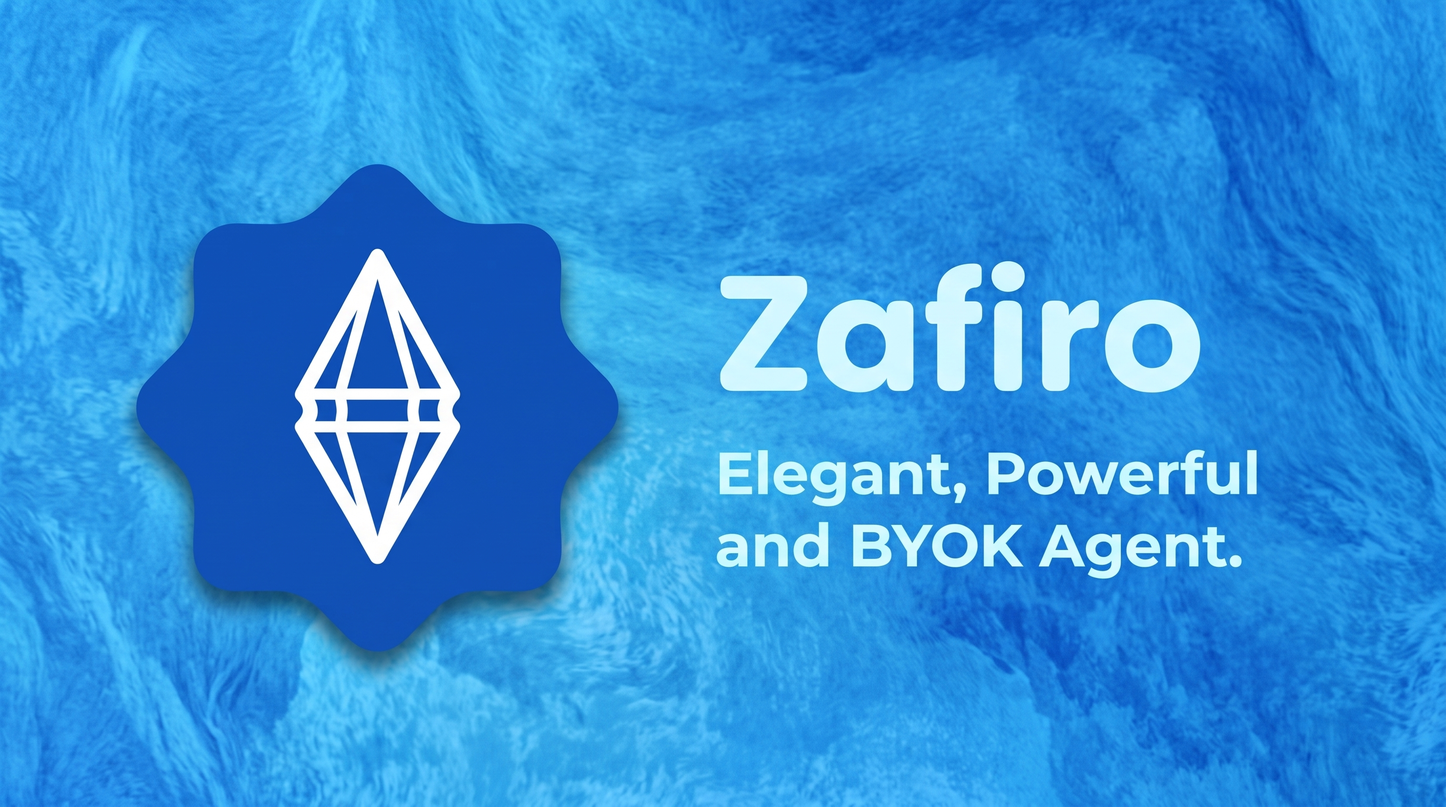
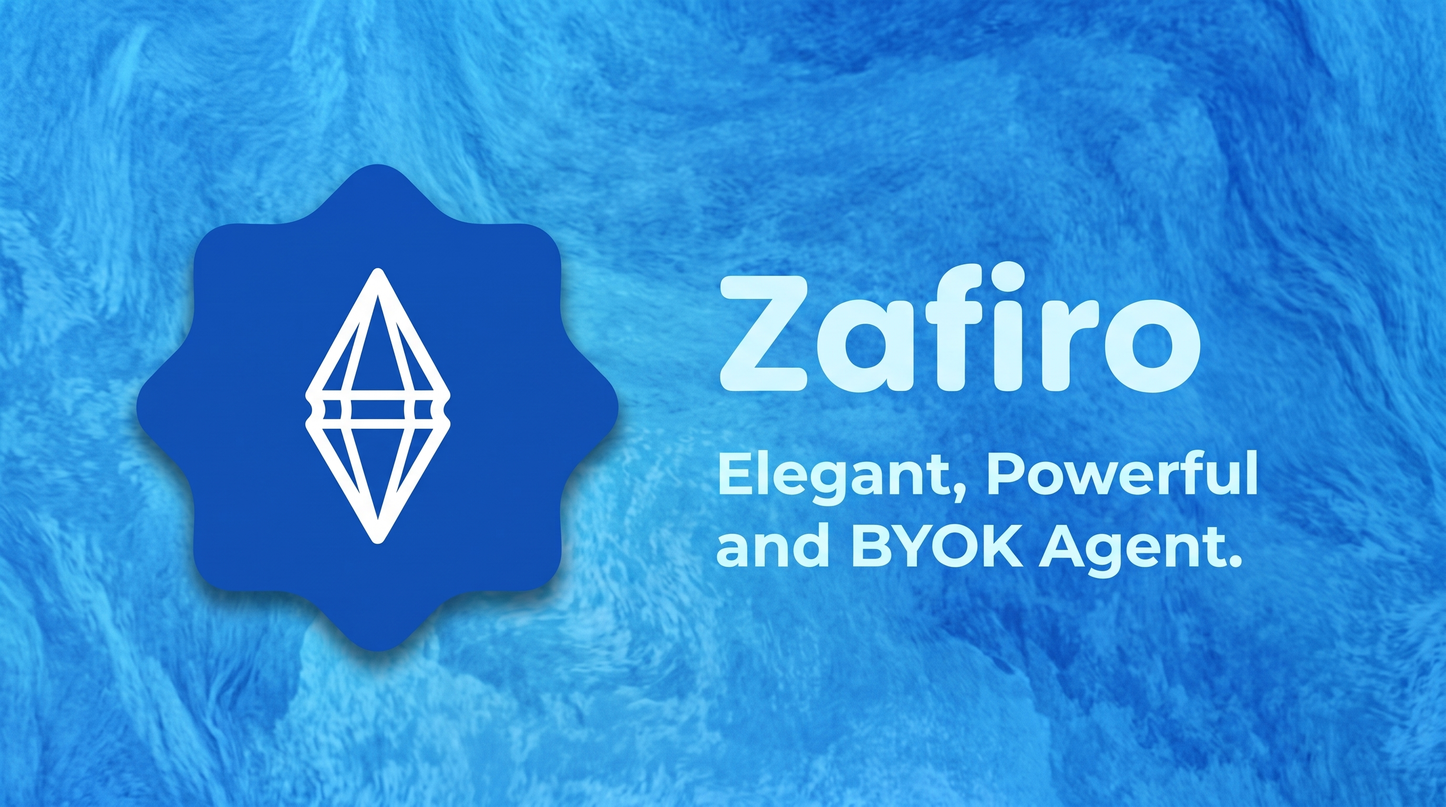
feat: add social preview crop script and update social previews

Changed region(s): [[0.1875, 0.3125, 0.3438, 0.7188]]

diff --git a/res/crop_social_preview.py b/res/crop_social_preview.py
@@ -1,0 +1,179 @@
+#!/usr/bin/env python3
+"""
+Crop and resize horizontal images to 2:1 aspect ratio (recommended 1280x640 for GitHub social preview).
+
+Logic:
+1. Confirmed horizontal image (w >= h).
+2. Uses the shorter side (height h) to deduce target width (target_w = 2 * h):
+   - If w > 2 * h: image is wider than 2:1 -> crop excess width (left/right symmetrically).
+   - If w < 2 * h: image is taller than 2:1 -> crop excess height (top/bottom symmetrically).
+   - If w == 2 * h: already 2:1 -> no cropping needed.
+3. If target size exceeds 1280x640 (or if --downscale is requested), downscales
+   to 1280x640 (or custom target) to save bandwidth and meet GitHub's recommended display spec.
+"""
+
+import argparse
+import sys
+from pathlib import Path
+from PIL import Image
+
+
+def process_image(
+    input_path: Path,
+    output_path: Path = None,
+    max_w: int = 1280,
+    max_h: int = 640,
+    downscale_first: bool = True,
+    quality: int = 90,
+) -> Path:
+    if not input_path.exists():
+        raise FileNotFoundError(f"Input file not found: {input_path}")
+
+    if output_path is None:
+        output_path = input_path.with_name(f"{input_path.stem}_github.jpeg")
+
+    with Image.open(input_path) as im:
+        # Convert RGBA / P to RGB if saving as JPEG
+        if im.mode in ("RGBA", "LA", "P"):
+            rgb_im = Image.new("RGB", im.size, (255, 255, 255))
+            if im.mode == "P":
+                im = im.convert("RGBA")
+            rgb_im.paste(im, mask=im.split()[-1] if "A" in im.mode else None)
+            im = rgb_im
+        elif im.mode != "RGB":
+            im = im.convert("RGB")
+
+        w, h = im.size
+        if w < h:
+            print(f"Warning: Image is vertical ({w}x{h}), treating width as the short side.")
+
+        print(f"Original size: {w}x{h}")
+
+        # If user recommends downscaling before cropping:
+        # We can scale down proportionally first so that after 2:1 crop it matches exactly max_w x max_h.
+        if downscale_first and max_w and max_h:
+            # We want the cropped result to be max_w x max_h (aspect ratio 2:1).
+            # Determine whether width or height should be matched to cover (max_w, max_h)
+            # scale = max(max_w / w, max_h / h)
+            # If scaling up, we only do it if the image is smaller than target
+            scale = min(max_w / min(w, 2 * h), max_h / h)
+            if scale < 1.0:
+                # Downscale first while maintaining aspect ratio
+                new_w = int(round(w * scale))
+                new_h = int(round(h * scale))
+                # Ensure it at least covers max_w x max_h
+                if new_w < max_w:
+                    new_w = max_w
+                    new_h = int(round(h * (max_w / w)))
+                if new_h < max_h:
+                    new_h = max_h
+                    new_w = int(round(w * (max_h / h)))
+
+                print(f"Downscaled first to: {new_w}x{new_h}")
+                im = im.resize((new_w, new_h), Image.Resampling.LANCZOS)
+                w, h = im.size
+
+        # Deduce target width based on short side (height h)
+        ideal_w = 2 * h
+
+        if w > ideal_w:
+            # Too wide: crop horizontal sides symmetrically
+            crop_w = ideal_w
+            crop_h = h
+            left = (w - crop_w) // 2
+            top = 0
+            right = left + crop_w
+            bottom = h
+            print(f"Image is wider than 2:1 ({w} > {ideal_w}). Cropping width: [{left}, {top}, {right}, {bottom}]")
+            im = im.crop((left, top, right, bottom))
+        elif w < ideal_w:
+            # Too tall: crop vertical sides symmetrically (target height = w // 2)
+            crop_w = w
+            crop_h = w // 2
+            left = 0
+            top = (h - crop_h) // 2
+            right = w
+            bottom = top + crop_h
+            print(f"Image is taller than 2:1 ({w} < {ideal_w}). Cropping height: [{left}, {top}, {right}, {bottom}]")
+            im = im.crop((left, top, right, bottom))
+        else:
+            print("Image is already 2:1 aspect ratio. No crop needed.")
+
+        # If not downscaled first or if cropped size is larger than max_w x max_h, scale to max_w x max_h
+        if max_w and max_h and (im.width > max_w or im.height > max_h):
+            print(f"Scaling final output to {max_w}x{max_h}")
+            im = im.resize((max_w, max_h), Image.Resampling.LANCZOS)
+
+        output_path.parent.mkdir(parents=True, exist_ok=True)
+        im.save(output_path, format="JPEG", quality=quality, optimize=True)
+        print(f"Processed successfully! Saved to: {output_path} ({im.size[0]}x{im.size[1]})")
+
+    return output_path
+
+
+def main():
+    parser = argparse.ArgumentParser(
+        description="Crop/resize horizontal image to 2:1 for GitHub social preview."
+    )
+    parser.add_argument(
+        "input",
+        nargs="?",
+        default="./brand/zafiro_social_preview.jpeg",
+        help="Path to the input image (default: ./brand/zafiro_social_preview.jpeg)",
+    )
+    parser.add_argument(
+        "-o",
+        "--output",
+        help="Path to output file (default: <input_stem>_github.jpeg in same directory)",
+    )
+    parser.add_argument(
+        "--width",
+        type=int,
+        default=1280,
+        help="Target width (default: 1280)",
+    )
+    parser.add_argument(
+        "--height",
+        type=int,
+        default=640,
+        help="Target height (default: 640)",
+    )
+    parser.add_argument(
+        "--quality",
+        type=int,
+        default=90,
+        help="JPEG quality (default: 90)",
+    )
+    parser.add_argument(
+        "--no-downscale-first",
+        action="store_true",
+        help="Crop first at full resolution, then downscale",
+    )
+
+    args = parser.parse_args()
+
+    input_path = Path(args.input)
+    if not input_path.is_absolute():
+        # resolve relative to current working dir
+        input_path = Path.cwd() / input_path
+
+    out_path = Path(args.output) if args.output else None
+    if out_path and not out_path.is_absolute():
+        out_path = Path.cwd() / out_path
+
+    try:
+        process_image(
+            input_path=input_path,
+            output_path=out_path,
+            max_w=args.width,
+            max_h=args.height,
+            downscale_first=not args.no_downscale_first,
+            quality=args.quality,
+        )
+    except Exception as e:
+        print(f"Error: {e}", file=sys.stderr)
+        sys.exit(1)
+
+
+if __name__ == "__main__":
+    main()

diff --git a/swap_images.py b/swap_images.py
@@ -1,0 +1,114 @@
+#!/usr/bin/env python3
+"""
+swap_images.py
+
+切换 Markdown 文件中指向本仓库的图片链接：
+- --local: 将远程 GitHub 图片 URL 切换为本地相对路径 (例如 ./res/...)
+- --remote: 将本地图片路径切换为远程 GitHub raw/blob URL (例如 https://github.com/niki914/zafiro/blob/main/res/...)
+"""
+
+import argparse
+import re
+import sys
+from pathlib import Path
+
+# 支持匹配各种 GitHub 组织/用户下的 zafiro 仓库分支/raw/blob 链接
+# 示例：
+# https://github.com/niki914/zafiro/blob/main/res/demos/demo.gif?raw=true
+# https://raw.githubusercontent.com/niki914/zafiro/main/res/demos/demo.gif
+REMOTE_PATTERN = re.compile(
+    r"https?://(?:raw\.githubusercontent\.com/[^/]+/zafiro/[^/]+|github\.com/[^/]+/zafiro/(?:blob|raw)/[^/]+)/(res/[^\s\"'>\)]+)"
+)
+
+# 本地路径匹配：./res/... 或 直接 res/...
+LOCAL_PATTERN = re.compile(
+    r"(?<![a-zA-Z0-9_\-\./])(?:\./)?(res/[^\s\"'>\)]+)"
+)
+
+DEFAULT_REMOTE_PREFIX = "https://github.com/niki914/zafiro/blob/main"
+
+
+def to_local_path(match: re.Match) -> str:
+    path_inside_repo = match.group(1)
+    # 去除可能存在的 ?raw=true 等 URL query 参数
+    clean_path = path_inside_repo.split("?")[0]
+    return clean_path
+
+
+def to_remote_url(match: re.Match, base_url: str = DEFAULT_REMOTE_PREFIX) -> str:
+    path_inside_repo = match.group(1)
+    clean_path = path_inside_repo.split("?")[0]
+    return f"{base_url}/{clean_path}?raw=true"
+
+
+def process_content(content: str, mode: str, base_url: str = DEFAULT_REMOTE_PREFIX) -> tuple[str, int]:
+    count = 0
+
+    if mode == "local":
+        def repl(m: re.Match) -> str:
+            nonlocal count
+            count += 1
+            return to_local_path(m)
+
+        new_content = REMOTE_PATTERN.sub(repl, content)
+
+    elif mode == "remote":
+        # 如果已经存在远程链接则不要重复替换，LOCAL_PATTERN 通过负向后行断言避免了匹配 https://.../res/...
+        def repl(m: re.Match) -> str:
+            nonlocal count
+            count += 1
+            return to_remote_url(m, base_url)
+
+        new_content = LOCAL_PATTERN.sub(repl, content)
+
+    else:
+        raise ValueError(f"Unknown mode: {mode}")
+
+    return new_content, count
+
+
+def main():
+    parser = argparse.ArgumentParser(
+        description="Swap image URLs between local relative paths and remote GitHub URLs in Markdown files."
+    )
+    parser.add_argument("files", nargs="+", help="Markdown file(s) to process (e.g. README.md)")
+    group = parser.add_mutually_exclusive_group(required=True)
+    group.add_argument("--local", action="store_true", help="Switch images to local paths (./res/...)")
+    group.add_argument("--remote", action="store_true", help="Switch images to remote URLs (https://github.com/.../res/...)")
+    parser.add_argument(
+        "--base-url",
+        default=DEFAULT_REMOTE_PREFIX,
+        help=f"Base GitHub URL for remote mode (default: {DEFAULT_REMOTE_PREFIX})",
+    )
+    parser.add_argument("--dry-run", action="store_true", help="Print changes without modifying files")
+
+    args = parser.parse_args()
+    mode = "local" if args.local else "remote"
+
+    for file_str in args.files:
+        file_path = Path(file_str)
+        if not file_path.is_file():
+            print(f"Error: {file_path} is not a valid file.", file=sys.stderr)
+            continue
+
+        try:
+            content = file_path.read_text(encoding="utf-8")
+        except Exception as e:
+            print(f"Error reading {file_path}: {e}", file=sys.stderr)
+            continue
+
+        new_content, count = process_content(content, mode, args.base_url)
+
+        if count == 0:
+            print(f"[{file_path}] No matching images found to swap to {mode}.")
+            continue
+
+        if args.dry_run:
+            print(f"[{file_path}] (Dry-run) Would swap {count} image(s) to {mode}.")
+        else:
+            file_path.write_text(new_content, encoding="utf-8")
+            print(f"[{file_path}] Successfully swapped {count} image(s) to {mode}.")
+
+
+if __name__ == "__main__":
+    main()
